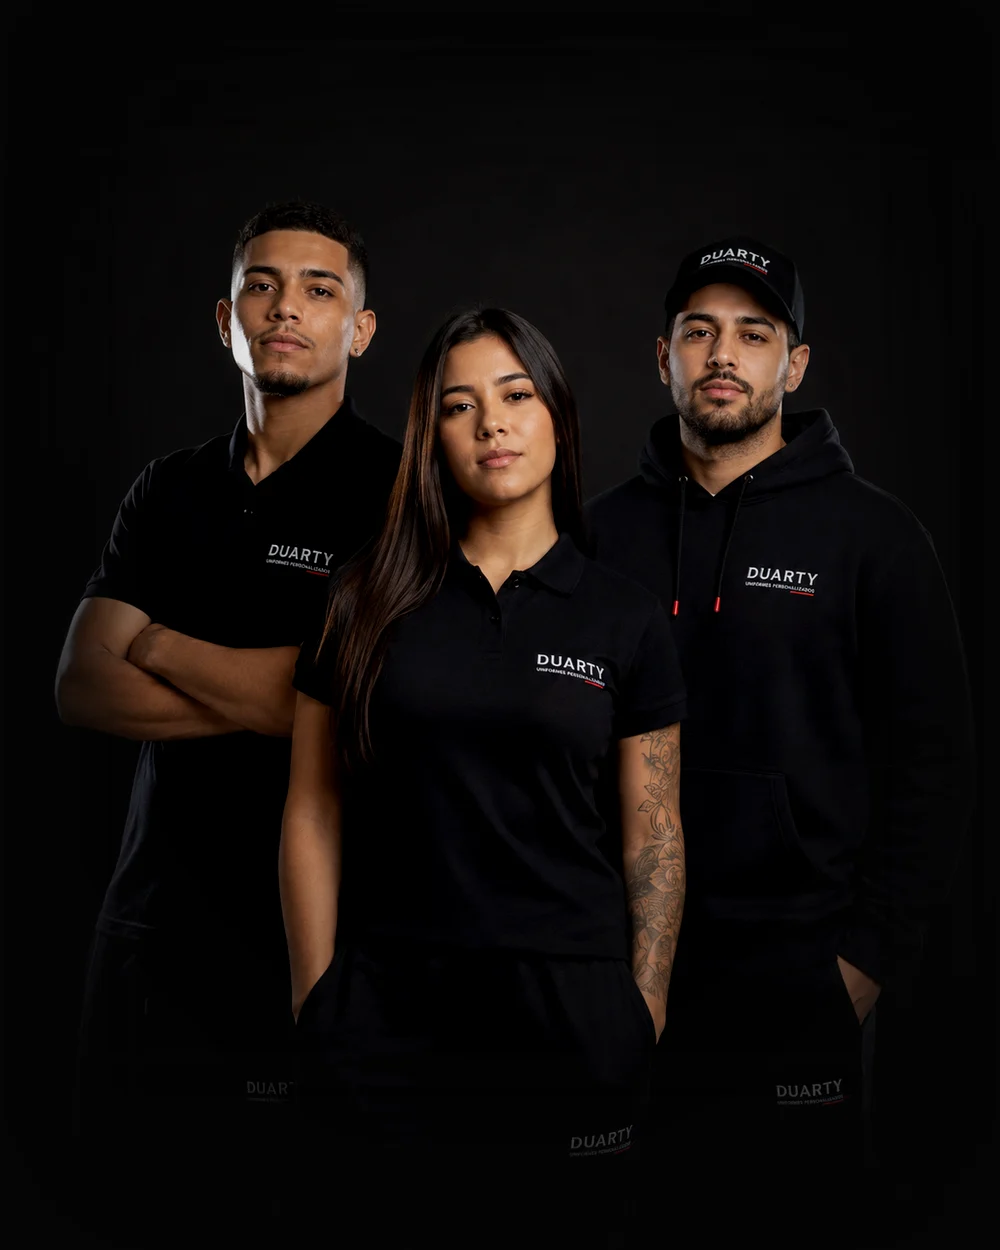
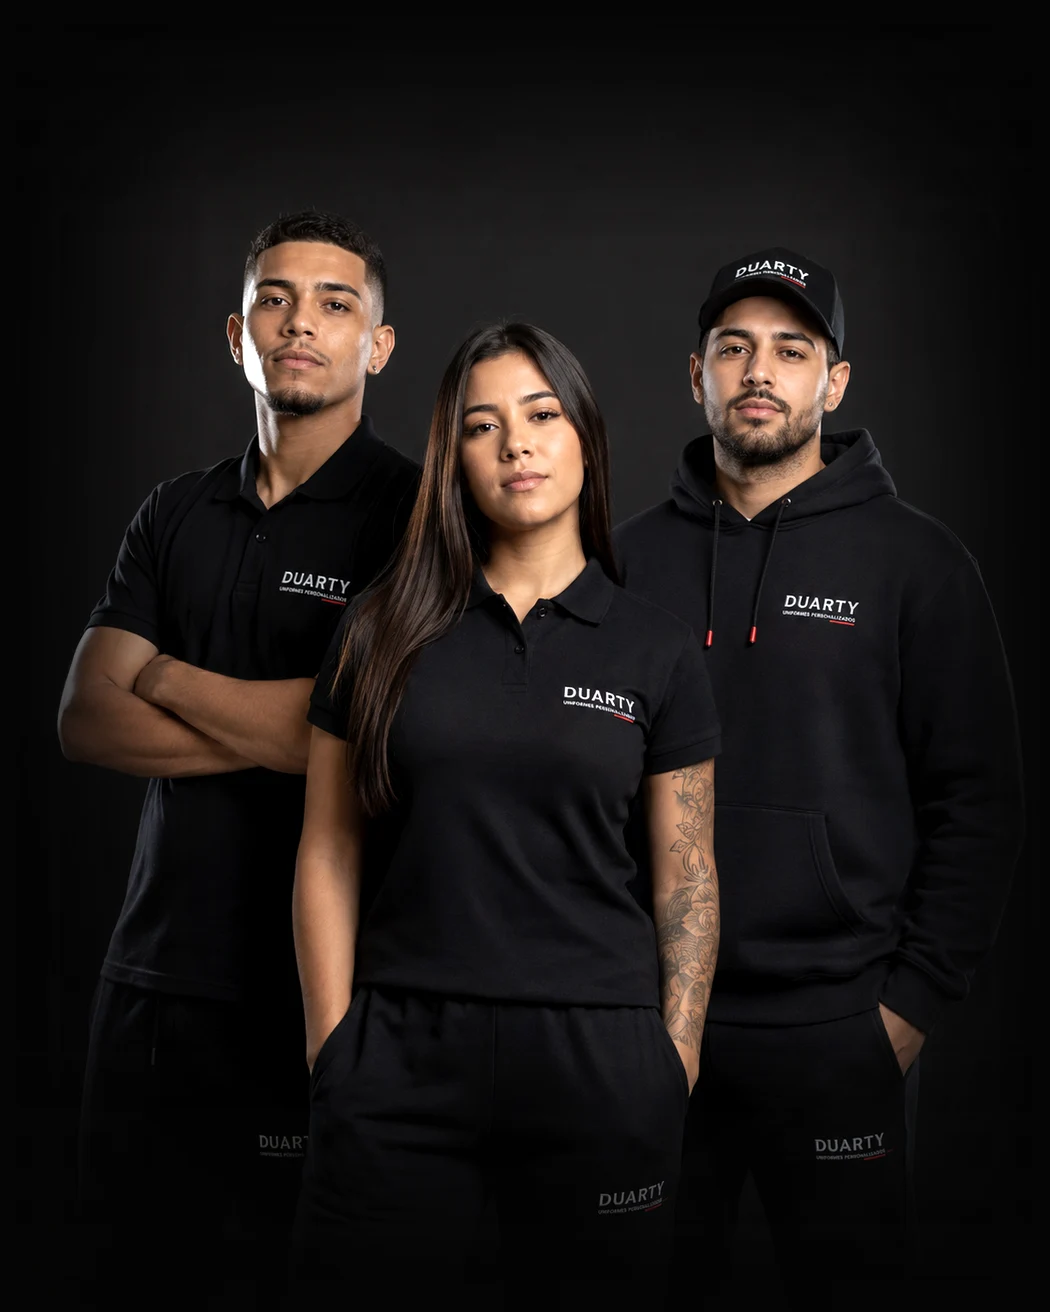
refine: hero equipe maior, mais clara e mais integrada ao fundo

diff --git a/src/components/Hero.jsx b/src/components/Hero.jsx
@@ -85,7 +85,7 @@ export default function Hero() {
 
         {/* coluna imagem */}
         <motion.div
-          className="relative"
+          className="relative lg:-ml-6 xl:-ml-12"
           initial={{ opacity: 0, scale: 0.96 }}
           animate={{ opacity: 1, scale: 1 }}
           transition={{ duration: 0.9, delay: 0.15, ease }}
@@ -95,8 +95,8 @@ export default function Hero() {
               src={heroModel}
               alt="Equipe vestindo uniformes personalizados Duarty — polo, moletom e boné"
               className="hero-model"
-              width="1000"
-              height="1250"
+              width="1050"
+              height="1312"
               fetchpriority="high"
               decoding="async"
             />

diff --git a/src/index.css b/src/index.css
@@ -83,12 +83,12 @@
     position: relative;
     z-index: 2;
     width: 100%;
-    max-width: 620px;
+    max-width: 690px;
     height: auto;
     display: block;
     object-fit: contain;
     object-position: center bottom;
-    filter: contrast(1.03) drop-shadow(0 34px 70px rgba(0, 0, 0, 0.6));
+    filter: contrast(1.02) drop-shadow(0 34px 70px rgba(0, 0, 0, 0.55));
   }
   /* monograma grande da marca — textura de fundo da seção, não compete com o modelo */
   .hero-monogram-bg {